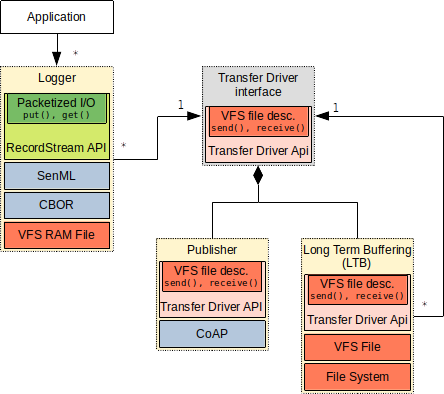
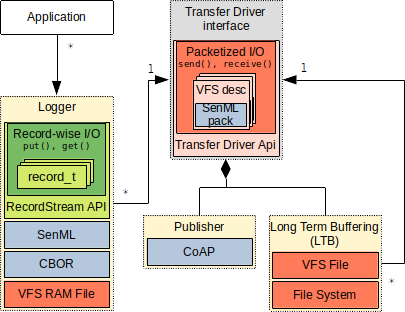
Fixed class diagram interface. Added link to backend git in README.

diff --git a/README.md b/README.md
@@ -1,7 +1,7 @@
 ## Constrained Data Logging Framework (ConDaLF) - client library
 Data logging tools based on RIOT OS
 
-This is the client side of the CoDaLF framework, a C library that provides basic modules for data point serialization, long time buffering and sending, aimed at devices with constrained resources. These modules can be statically enabled/disabled, yet are run-time configurable. Packaged as an external module for the [RIOT-OS](https://www.riot-os.org/), the library can be used on almost every platform that is supported by the OS. The user can furthermore take advantage of the whole RIOT ecosystem for the rest of the implementation. The straight-forward way to use it is complementary to the [ConDaLF backend](link-to-condalf-backed-repo), however, the standard protocols for packaging and sending data used by the framework ensure complete decoupling from the backend choice.
+This is the client side of the CoDaLF framework, a C library that provides basic modules for data point serialization, long time buffering and sending, aimed at devices with constrained resources. These modules can be statically enabled/disabled, yet are run-time configurable. Packaged as an external module for the [RIOT-OS](https://www.riot-os.org/), the library can be used on almost every platform that is supported by the OS. The user can furthermore take advantage of the whole RIOT ecosystem for the rest of the implementation. The straight-forward way to use it is complementary to the [ConDaLF backend](https://github.com/renebckr/ConDaLF-Backend), however, the standard protocols for packaging and sending data used by the framework ensure complete decoupling from the backend choice.
 
 ## Building and integrating ConDaLF in a project
 
